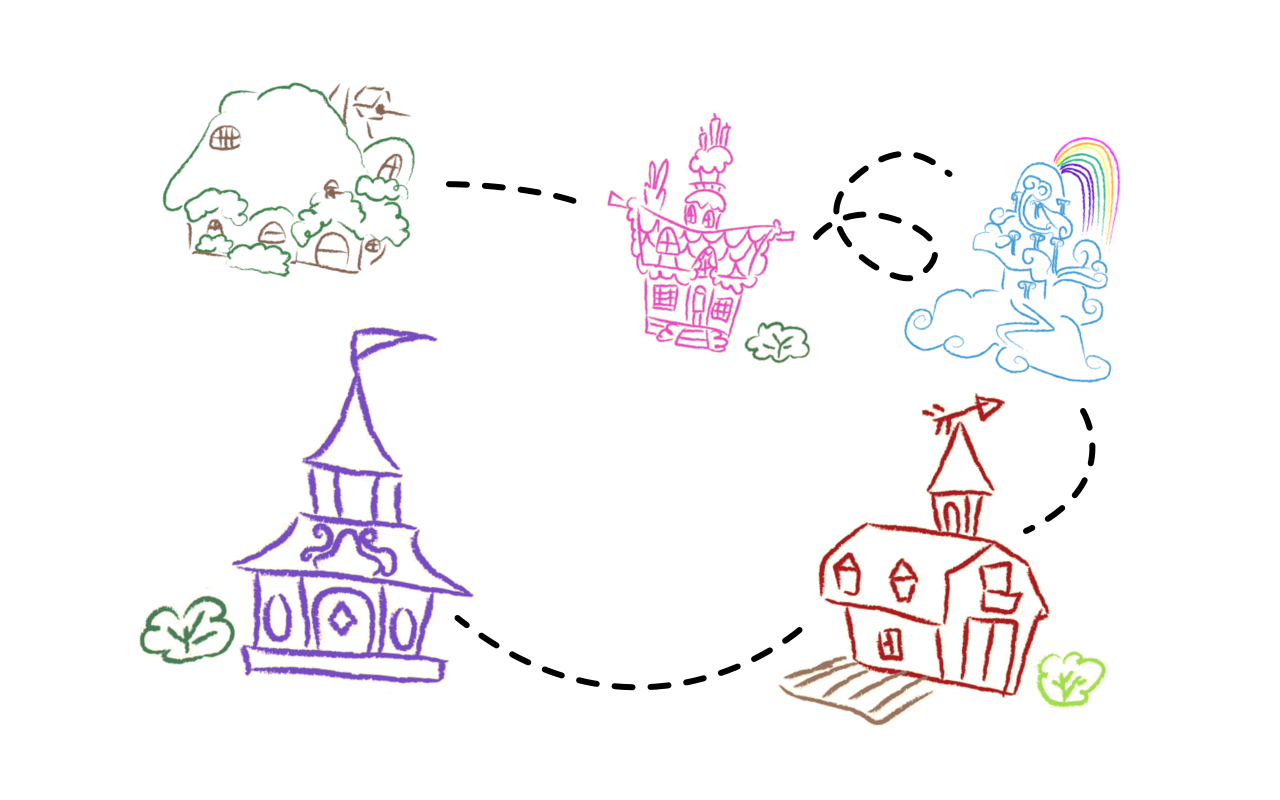
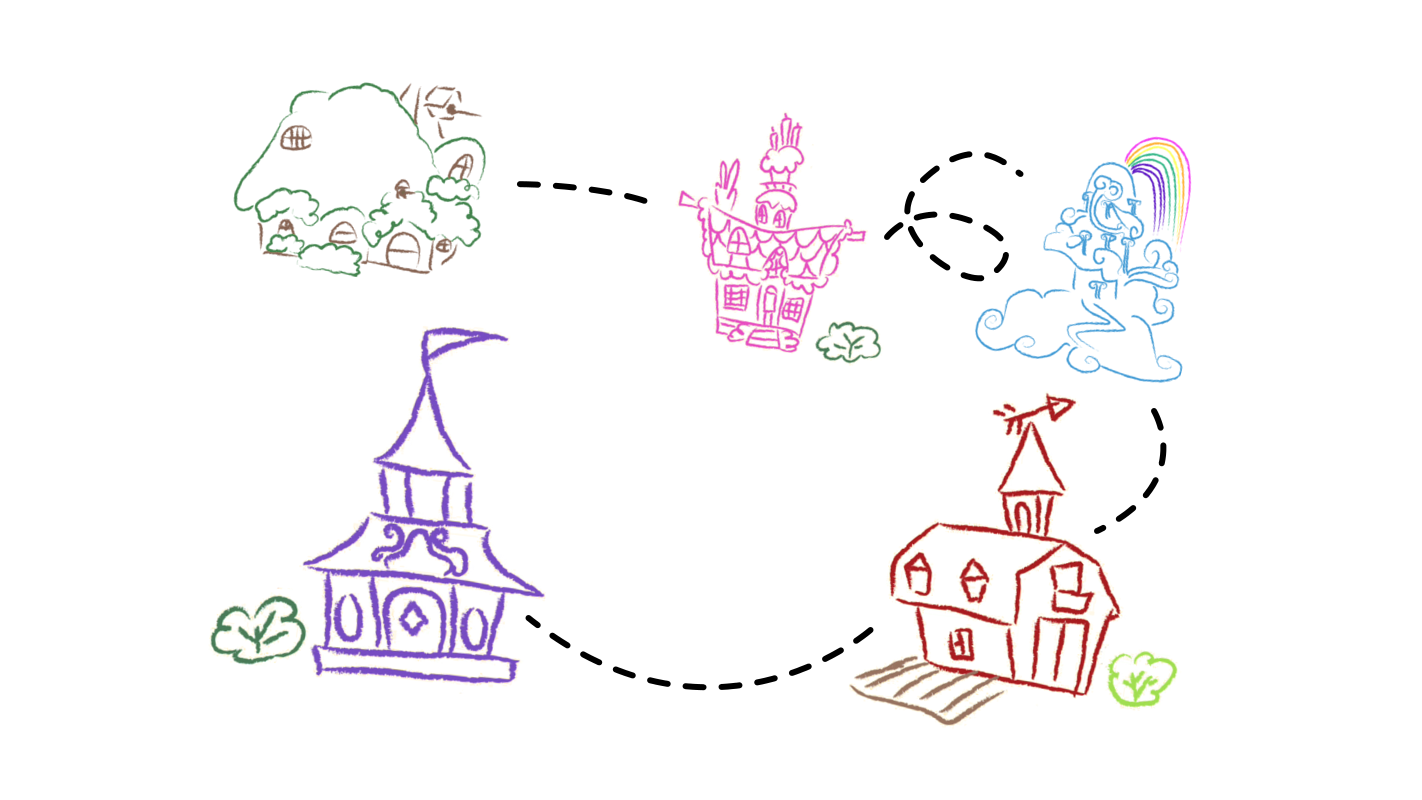
initial full HD support

diff --git a/src/main.c b/src/main.c
@@ -71,6 +71,7 @@
 
 double old_time = 0, fps;
 int frames_done = 0;
+bool memoryscale;
 
 char* GetDataFilePath(char* filename) {
 
@@ -351,12 +352,16 @@ ALLEGRO_BITMAP* LoadScaledBitmap(char* filename, int width, int height) {
 	al_clear_to_color(al_map_rgba(0,0,0,0));
 	char* origfn = GetDataFilePath(filename);
 	void GenerateBitmap() {
-		al_set_new_bitmap_flags(ALLEGRO_MEMORY_BITMAP);
+		if (memoryscale) al_set_new_bitmap_flags(ALLEGRO_MEMORY_BITMAP);
 
 		source = al_load_bitmap( origfn );
-		al_set_new_bitmap_flags(ALLEGRO_MIN_LINEAR | ALLEGRO_MAG_LINEAR);
-
-		ScaleBitmap(source, width, height);
+		if (memoryscale) {
+			al_set_new_bitmap_flags(ALLEGRO_MIN_LINEAR | ALLEGRO_MAG_LINEAR);
+			ScaleBitmap(source, width, height);
+		}
+		else {
+			al_draw_scaled_bitmap(source, 0, 0, al_get_bitmap_width(source), al_get_bitmap_height(source), 0, 0, width, height, 0);
+		}
 		/*al_save_bitmap(cachefn, target);
 		PrintConsole(game, "Cache bitmap %s generated.", filename);*/
 		al_destroy_bitmap(source);
@@ -375,11 +380,12 @@ ALLEGRO_BITMAP* LoadScaledBitmap(char* filename, int width, int height) {
 	return target;*/
 }
 
+
 void SetupViewport(struct Game *game) {
 	game->viewportWidth = al_get_display_width(game->display);
 	game->viewportHeight = al_get_display_height(game->display);
 	if (atoi(GetConfigOptionDefault("SuperDerpy", "letterbox", "1"))) {
-		float const aspectRatio = (float)800 / (float)500;
+		float const aspectRatio = (float)1920 / (float)1080; // full HD
 		int clipWidth = game->viewportWidth, clipHeight = game->viewportWidth / aspectRatio;
 		int clipX = 0, clipY = (game->viewportHeight - clipHeight) / 2;
 		if (clipY <= 0) {
@@ -391,7 +397,7 @@ void SetupViewport(struct Game *game) {
 		al_set_clipping_rectangle(clipX, clipY, clipWidth, clipHeight);
 
 		/*float scaleX = (float)clipWidth  / (float)800,
-					scaleY = (float)clipHeight / (float)500;*/
+					scaleY = (float)clipHeight / (float)450;*/
 		ALLEGRO_TRANSFORM projection;
 		al_build_transform(&projection, clipX, clipY, 1, 1, 0.0f);
 		al_use_transform(&projection);
@@ -454,8 +460,9 @@ int main(int argc, char **argv){
 	game.debug = atoi(GetConfigOptionDefault("SuperDerpy", "debug", "0"));
 	game.width = atoi(GetConfigOptionDefault("SuperDerpy", "width", "800"));
 	if (game.width<320) game.width=320;
-	game.height = atoi(GetConfigOptionDefault("SuperDerpy", "height", "500"));
-	if (game.height<200) game.height=200;
+	game.height = atoi(GetConfigOptionDefault("SuperDerpy", "height", "450"));
+	if (game.height<200) game.height=180;
+	memoryscale = !atoi(GetConfigOptionDefault("SuperDerpy", "GPU_scaling", "1"));
 
 	if(!al_init_image_addon()) {
 		fprintf(stderr, "failed to initialize image addon!\n");

diff --git a/src/gamestates/map.c b/src/gamestates/map.c
@@ -28,28 +28,28 @@ void Map_Draw(struct Game *game) {
 	float x=0,y=0;
 	switch (game->map.selected) {
 		case 1:
-			x=0.175;
+			x=0.2;
 			y=0.25;
 			break;
 		case 2:
-			x=0.5;
-			y=0.375;
+			x=0.495;
+			y=0.35;
 			break;
 		case 3:
-			x=0.738;
+			x=0.72;
 			y=0.4;
 			break;
 		case 4:
 			x=0.7;
-			y=0.7625;
+			y=0.77;
 			break;
 		case 5:
-			x=0.225;
+			x=0.248;
 			y=0.75;
 			break;
 		case 6:
 			x=0.425;
-			y=0.65;
+			y=0.675;
 			break;
 	}
 	al_draw_scaled_bitmap(game->map.arrow, 0, 0, al_get_bitmap_width(game->map.arrow), al_get_bitmap_height(game->map.arrow), game->viewportWidth*x, game->viewportHeight*y + ((sin(game->map.arrowpos)+0.5)/20.0)*game->viewportHeight, game->viewportWidth*0.1, game->viewportHeight*0.16, 0);
